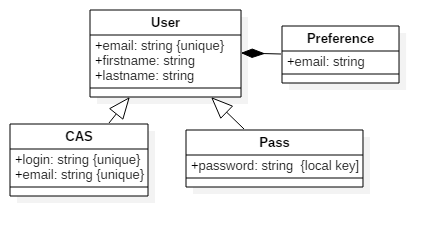
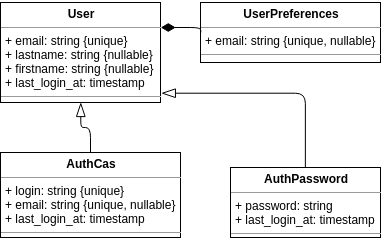
Mise à jour du README

Changed region(s): [[0.0, 0.0, 1.0, 1.0]]

diff --git a/documentation/README.md b/documentation/README.md
@@ -83,6 +83,7 @@ Pour créer un nouveau service/système d'authentification, il suffit de créer 
 
 ### CAS
 
+Le CAS est un système d'authentification automatiquement géré par le service Cas créé pour l'occasion. Il gère automatiquement la connexion, et la déconnexion
 
 ### Ginger
 
